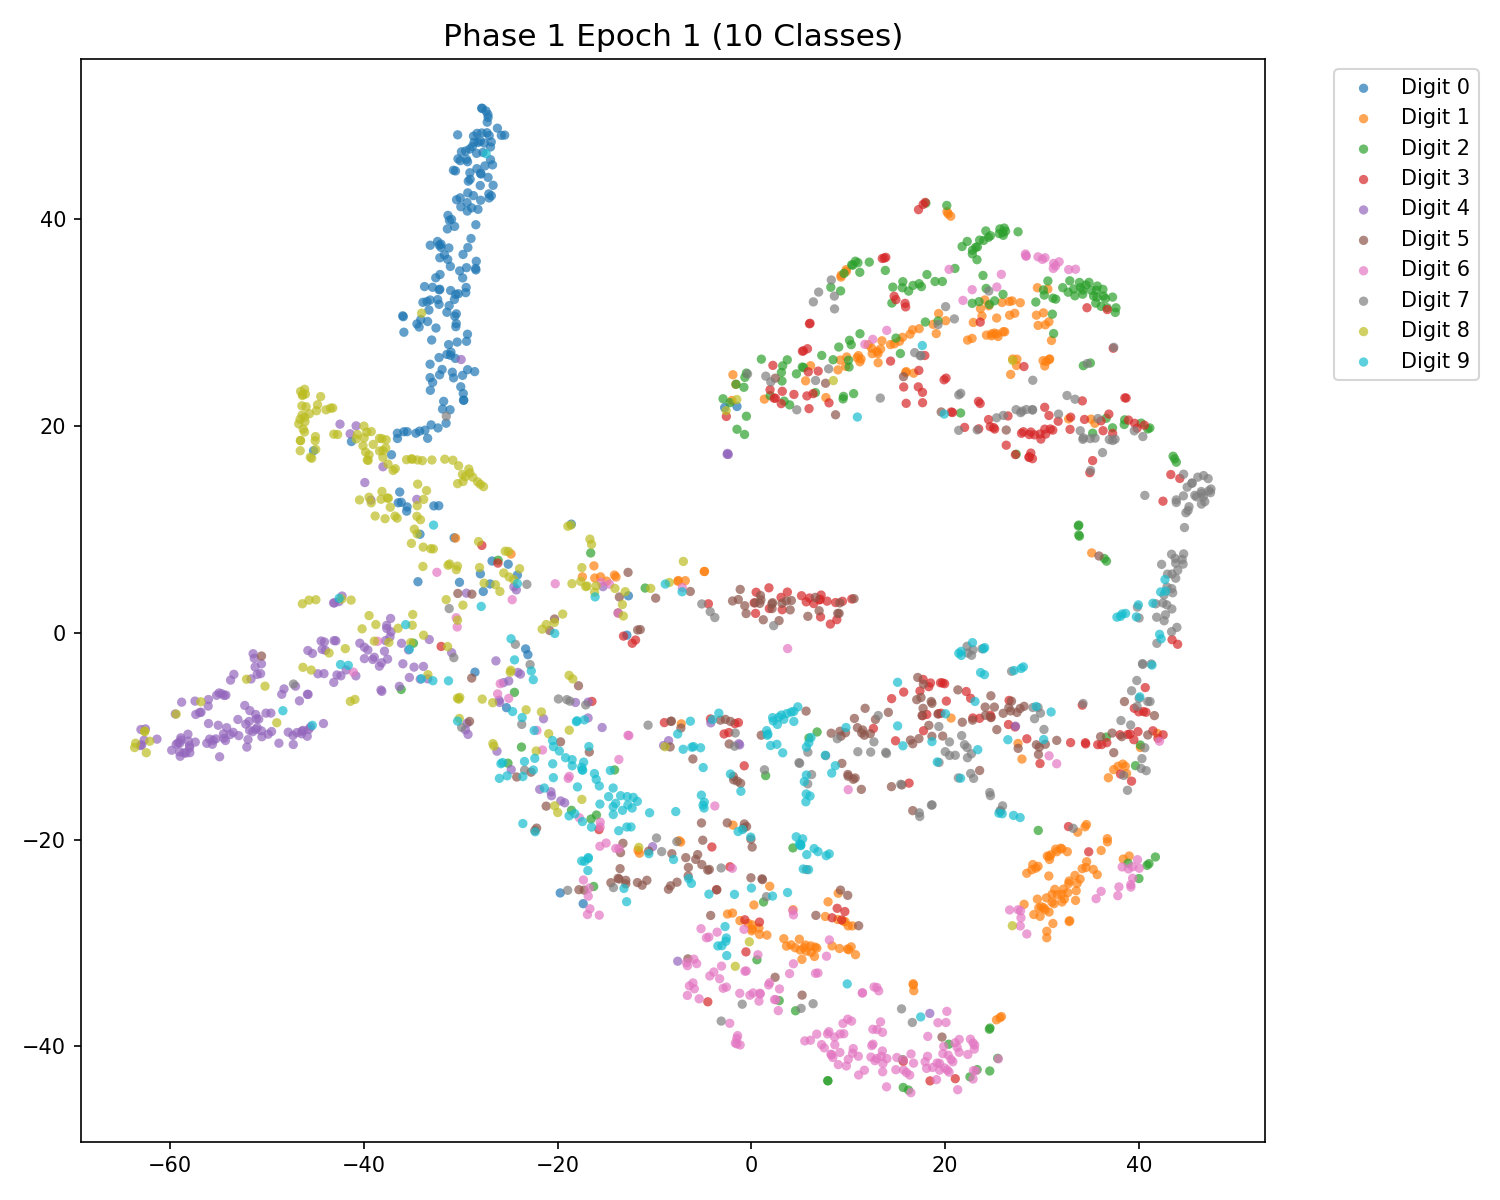
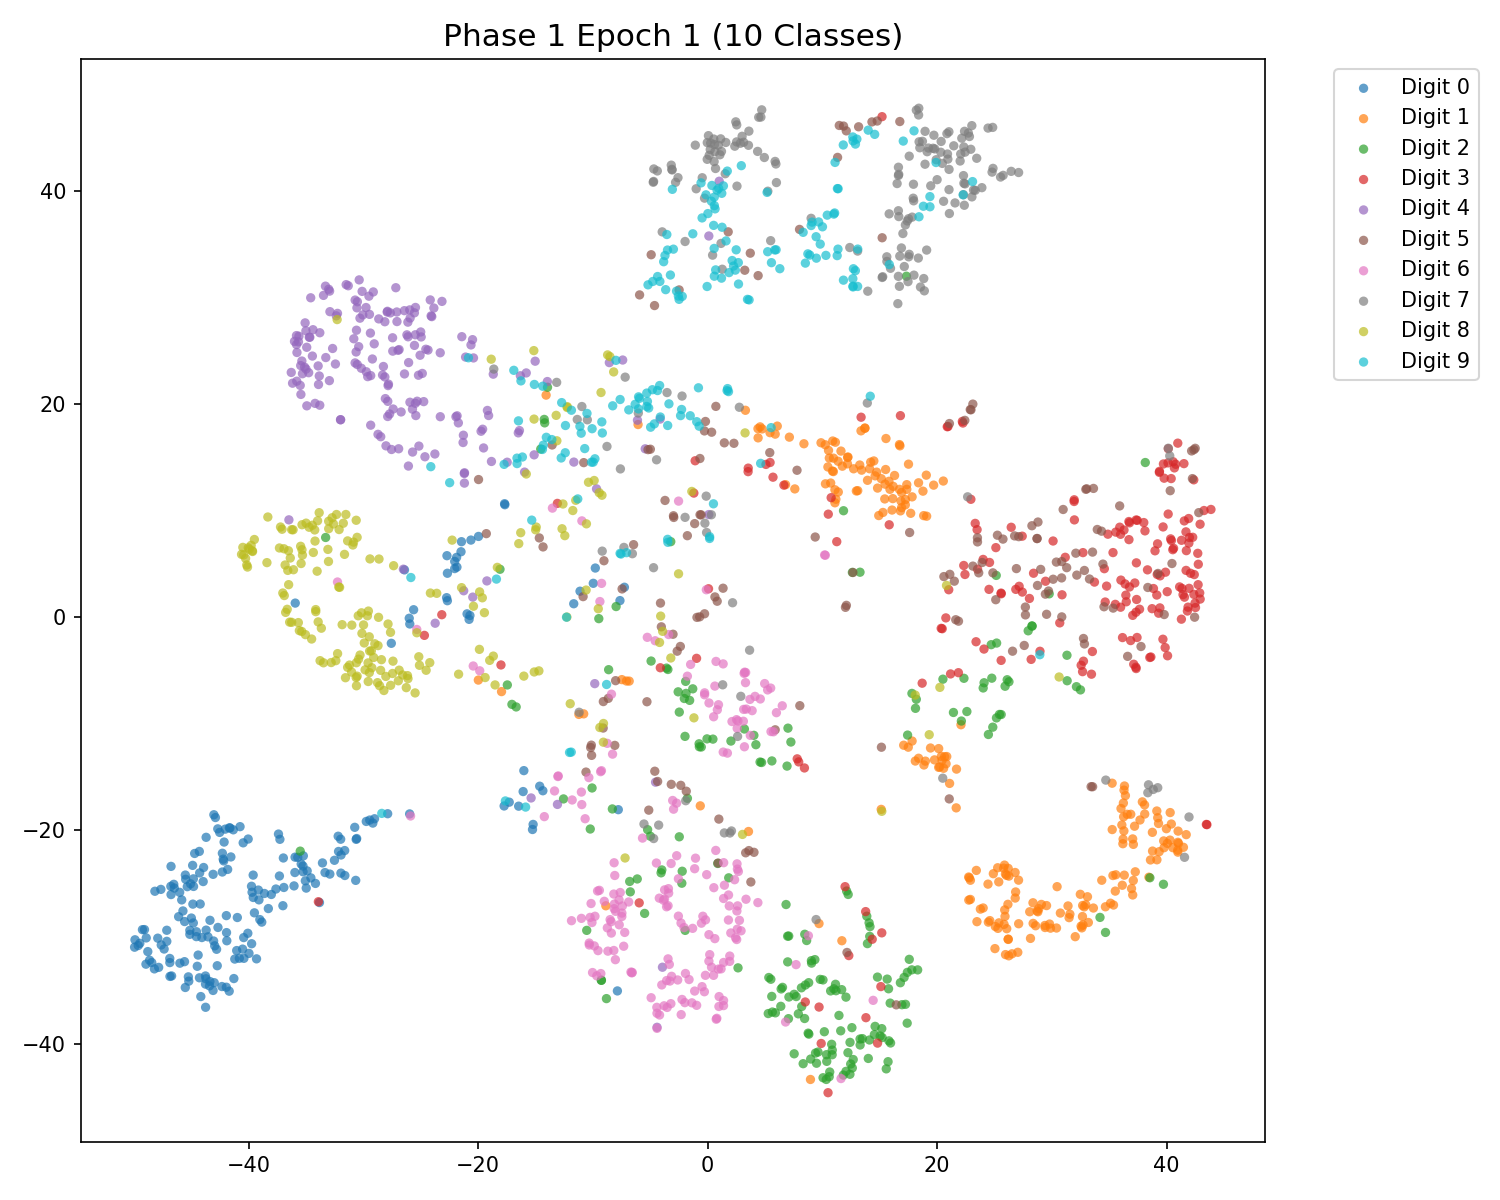
with decoder

diff --git a/src/training/losses.py b/src/training/losses.py
@@ -74,22 +74,17 @@ class PrototypeLoss(nn.Module):
             loss_cls = self.bce_loss(outputs['logits'], targets.float())
         
         # 2. Reconstruction loss
-        if self.lambda_reconstruction > 0:
-            loss_recon_num = self.mse_loss(outputs['num_recon'], x_num)
-            
-            loss_recon_cat = torch.tensor(0.0, device=x_num.device)
-            for i, cat_logits in enumerate(outputs['cat_recons']):
-                n_classes = cat_logits.shape[1]
-                target_i = x_cat[:, i].clamp(0, n_classes - 1)
-                loss_recon_cat = loss_recon_cat + self.ce_loss(cat_logits, target_i)
-            if len(outputs['cat_recons']) > 0:
-                loss_recon_cat = loss_recon_cat / len(outputs['cat_recons'])
-            
-            loss_recon = self.num_weight * loss_recon_num + self.cat_weight * loss_recon_cat
-        else:
-            loss_recon = torch.tensor(0.0, device=x_num.device)
-            loss_recon_num = torch.tensor(0.0, device=x_num.device)
-            loss_recon_cat = torch.tensor(0.0, device=x_num.device)
+        loss_recon_num = self.mse_loss(outputs['num_recon'], x_num)
+        
+        loss_recon_cat = torch.tensor(0.0, device=x_num.device)
+        for i, cat_logits in enumerate(outputs['cat_recons']):
+            n_classes = cat_logits.shape[1]
+            target_i = x_cat[:, i].clamp(0, n_classes - 1)
+            loss_recon_cat = loss_recon_cat + self.ce_loss(cat_logits, target_i)
+        if len(outputs['cat_recons']) > 0:
+            loss_recon_cat = loss_recon_cat / len(outputs['cat_recons'])
+        
+        loss_recon = self.num_weight * loss_recon_num + self.cat_weight * loss_recon_cat
 
         # Total loss (simplified per PTaRL paper)
         total_loss = loss_cls + self.lambda_reconstruction * loss_recon

diff --git a/src/config.py b/src/config.py
@@ -55,7 +55,7 @@ class ModelConfig:
     early_stopping_patience: int = 5
     
     # Loss weights
-    lambda_reconstruction: float = 0.0  # Higher weight for reconstruction on images
+    lambda_reconstruction: float = 0.5  # Higher weight for reconstruction on images
     lambda_diversity: float = 0.1
     lambda_clustering: float = 0.1
     
